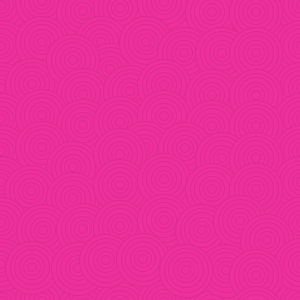
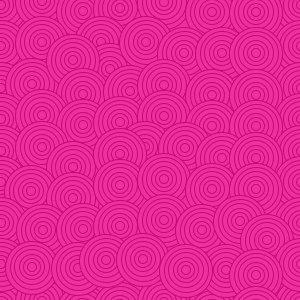
Adding grey and gold versions of all images to test out look and feels, fixing number of columns displayed on wide screens

Changed region(s): [[0.0, 0.0, 1.0, 1.0]]

diff --git a/project-data.js b/project-data.js
@@ -8,7 +8,7 @@ module.exports = [
 		description: "A platformer featuring grappling hooks.",
 		instructions: "Left/Right: move, Space: jump, Click: shoot grapple, Shift: pull grapple",
 		grid: {
-			previewImageUrl: "/img/grapple-game/still.gif",
+			previewImageUrl: "/img/grapple-game/grey.gif",
 			imageUrl: "/img/grapple-game/animated.gif",
 			tiles: ["XXXX","XXXX","XXXX","XXXX","XXXX"]
 		},
@@ -29,17 +29,17 @@ module.exports = [
 		description: "TEST TEST",
 		instructions: null,
 		grid: {
-			previewImageUrl: "/img/sketch-world/still.gif",
+			previewImageUrl: "/img/sketch-world/grey.gif",
 			imageUrl: "/img/sketch-world/animated.gif",
 			tiles: ["XXXXXX","XXXXXX","XXXXXX"]
 		},
 		content: {
 			type: "iframe",
 			url: "http://brid.gs:3012/",
-			width: 800,
-			height: 600,
+			width: 700,
+			height: 500,
 			x: 0,
-			y: 0
+			y: 15
 		}
 	}, {
 		id: "processing-sketchbook",
@@ -50,7 +50,7 @@ module.exports = [
 		description: "Some doodles to get acquainted with Processing.",
 		instructions: null,
 		grid: {
-			previewImageUrl: "/img/processing-sketchbook/still.gif",
+			previewImageUrl: "/img/processing-sketchbook/grey.gif",
 			imageUrl: "/img/processing-sketchbook/animated.gif",
 			tiles: ["XX","XX"]
 		},
@@ -71,7 +71,7 @@ module.exports = [
 		description: "Testing frame-by-frame hitboxes to see how that would feel.",
 		instructions: "Left/Right: move, Space: jump, Z: swing",
 		grid: {
-			previewImageUrl: "/img/breakout-ball/still.gif",
+			previewImageUrl: "/img/breakout-ball/grey.gif",
 			imageUrl: "/img/breakout-ball/animated.gif",
 			tiles: ["XXX","XXX"]
 		},
@@ -92,7 +92,7 @@ module.exports = [
 		description: "A tile-based puzzle game invovling time travel. The final product would revolve around solving puzzles while avoiding paradoxes that would be caused by interfering with your past self.",
 		instructions: "WASD: move, Z: use/drop item, X: return to the past",
 		grid: {
-			previewImageUrl: "/img/paradox-anomaly/still.gif",
+			previewImageUrl: "/img/paradox-anomaly/grey.gif",
 			imageUrl: "/img/paradox-anomaly/animated.gif",
 			tiles: ["XXXX","XXXX","XXXX","XXXX"]
 		},
@@ -113,7 +113,7 @@ module.exports = [
 		description: "A platformer intended to be a sequence of boss fights. Only one was fully programmed (with another, a fire queen, in development).",
 		instructions: "Left/Right: move, Space: jump, A: shoot",
 		grid: {
-			previewImageUrl: "/img/boss-rush-game/still.gif",
+			previewImageUrl: "/img/boss-rush-game/grey.gif",
 			imageUrl: "/img/boss-rush-game/animated.gif",
 			tiles: ["XXXXX","XXXXX","XXXXX"]
 		},
@@ -134,7 +134,7 @@ module.exports = [
 		description: "A multiplayer spaceship simulator. The end product would give each player their own dashboard and controls for specific parts of the ship as it hurtled through space.",
 		instructions: "Control thrusters with mouse",
 		grid: {
-			previewImageUrl: "/img/space-team-galaxy-explorer/still.gif",
+			previewImageUrl: "/img/space-team-galaxy-explorer/grey.gif",
 			imageUrl: "/img/space-team-galaxy-explorer/animated.gif",
 			tiles: ["XXXXX","XXXXX","XXXXX","XXXXX"]
 		},
@@ -155,7 +155,7 @@ module.exports = [
 		description: "An exercise in <a href=\"http://en.wikipedia.org/wiki/Code_golf\" target=\"_blank\">code golf</a>. The goal was to implement a minimalist version of Snake in the fewest characters possible. The version above is 623 characters minified.",
 		instructions: "Arrow keys: move",
 		grid: {
-			previewImageUrl: "/img/minisnake/still.gif",
+			previewImageUrl: "/img/minisnake/grey.gif",
 			imageUrl: "/img/minisnake/animated.gif",
 			tiles: ["XXX"]
 		},
@@ -176,7 +176,7 @@ module.exports = [
 		description: "A simple spider web simulation thrown together during a family vacation.",
 		instructions: "WASD: move, Shift: lay web",
 		grid: {
-			previewImageUrl: "/img/spider-game/still.gif",
+			previewImageUrl: "/img/spider-game/grey.gif",
 			imageUrl: "/img/spider-game/animated.gif",
 			tiles: ["XX","XX"]
 		},
@@ -197,7 +197,7 @@ module.exports = [
 		description: "First foray into WebGL, the cylindrical player model is able to shoot arrows at varying speeds and distances.",
 		instructions: "WASD: move, Click and drag player: fire arrow, C: change camera",
 		grid: {
-			previewImageUrl: "/img/archery-game/still.gif",
+			previewImageUrl: "/img/archery-game/grey.gif",
 			imageUrl: "/img/archery-game/animated.gif",
 			tiles: ["XX","XX","XX","XX","XX","XX","XX"]
 		},
@@ -218,7 +218,7 @@ module.exports = [
 		description: "Code4Health 2013 hackathon submission. Our team of two created a site for giving comfort to those in need. The final version would have pulled requests for comfort from Twitter and posted the responses anonymously.",
 		instructions: null,
 		grid: {
-			previewImageUrl: "/img/tranquilime/still.gif",
+			previewImageUrl: "/img/tranquilime/grey.gif",
 			imageUrl: "/img/tranquilime/animated.gif",
 			tiles: ["XXXX","XXXX"]
 		},
@@ -239,7 +239,7 @@ module.exports = [
 		description: "TEST TEST",
 		instructions: null,
 		grid: {
-			previewImageUrl: "/img/sticky-wiki/still.gif",
+			previewImageUrl: "/img/sticky-wiki/grey.gif",
 			imageUrl: "/img/sticky-wiki/animated.gif",
 			tiles: ["XX","XX","XX","XX"]
 		},
@@ -260,7 +260,7 @@ module.exports = [
 		description: "Non-interactive concepts for a block puzzler. The goal was to make a game where as soon as you cleared any tiles, new tiles would be added in such a way that the combo would continue forever.",
 		instructions: null,
 		grid: {
-			previewImageUrl: "/img/alchemy-drop/still.gif",
+			previewImageUrl: "/img/alchemy-drop/grey.gif",
 			imageUrl: "/img/alchemy-drop/animated.gif",
 			tiles: ["X","X","X"]
 		},
@@ -281,7 +281,7 @@ module.exports = [
 		description: "College submission for a flocking simulation. The zombies (green dots) are programmed to seek out humans (blue dots) while the humans are programmed to stick together and avoid zombies.",
 		instructions: null,
 		grid: {
-			previewImageUrl: "/img/zombie-aflockalypse/still.gif",
+			previewImageUrl: "/img/zombie-aflockalypse/grey.gif",
 			imageUrl: "/img/zombie-aflockalypse/animated.gif",
 			tiles: ["XXX","XXX","XXX"]
 		},
@@ -302,7 +302,7 @@ module.exports = [
 		description: "A little hex world with customizable terrain.",
 		instructions: null,
 		grid: {
-			previewImageUrl: "/img/hex-game/still.gif",
+			previewImageUrl: "/img/hex-game/grey.gif",
 			imageUrl: "/img/hex-game/animated.gif",
 			tiles: ["XX"]
 		},
@@ -323,7 +323,7 @@ module.exports = [
 		description: "Random doodle of a blob.",
 		instructions: null,
 		grid: {
-			previewImageUrl: "/img/blob-animation/still.gif",
+			previewImageUrl: "/img/blob-animation/grey.gif",
 			imageUrl: "/img/blob-animation/animated.gif",
 			tiles: ["X"]
 		},
@@ -341,10 +341,10 @@ module.exports = [
 		timePeriod: "2006",
 		medium: "ActionScript",
 		repoUrl: null,
-		description: "The beginnings of my first ever successful physics engine.",
+		description: "The beginnings of my first ever physics engine.",
 		instructions: null,
 		grid: {
-			previewImageUrl: "/img/phys-engine/still.gif",
+			previewImageUrl: "/img/phys-engine/grey.gif",
 			imageUrl: "/img/phys-engine/animated.gif",
 			tiles: ["X","X"]
 		},
@@ -365,7 +365,7 @@ module.exports = [
 		description: "An extremely esoteric math game.",
 		instructions: "Click stems of fruit to... do a whole bunch of stuff",
 		grid: {
-			previewImageUrl: "/img/efflorescence/still.gif",
+			previewImageUrl: "/img/efflorescence/grey.gif",
 			imageUrl: "/img/efflorescence/animated.gif",
 			tiles: ["XX","XX"]
 		},
@@ -386,7 +386,7 @@ module.exports = [
 		description: "An experimental take on Minesweeper for <a href=\"http://playwithyourmind.com/\" target=\"_blank\">Play With Your Mind</a>.",
 		instructions: null,
 		grid: {
-			previewImageUrl: "/img/mindsweeper/still.gif",
+			previewImageUrl: "/img/mindsweeper/grey.gif",
 			imageUrl: "/img/mindsweeper/animated.gif",
 			tiles: ["XX","XX"]
 		},
@@ -407,7 +407,7 @@ module.exports = [
 		description: "Animation test for a virtual pet game.",
 		instructions: null,
 		grid: {
-			previewImageUrl: "/img/virtual-pet/still.gif",
+			previewImageUrl: "/img/virtual-pet/grey.gif",
 			imageUrl: "/img/virtual-pet/animated.gif",
 			tiles: ["XX","XX","XX","XX"]
 		},

diff --git a/web/script.js b/web/script.js
@@ -10,8 +10,9 @@ $(document).ready(function() {
 
 	//constants
 	var MIN_COLUMNS = 4;
-	var TILE_IMAGE_FADE_IN_TIME = 500;
-	var TILE_IMAGE_FADE_OUT_TIME = 500;
+	var TILE_IMAGE_FADE_IN_TIME = 400;
+	var TILE_IMAGE_FADE_DELAY = 1000;
+	var TILE_IMAGE_FADE_OUT_TIME = 400;
 	var TILE_RESIZE_DELAY = 250;
 	var DIALOG_CONTENT_DEFAULT_WIDTH = 200;
 	var DIALOG_CONTENT_DEFAULT_HEIGHT = 200;
@@ -51,14 +52,27 @@ $(document).ready(function() {
 	//bind events when a shape is moused over or clicked
 	projects.forEach(function(project) {
 		var img = project.shape.find('img');
+		var timer = null;
 		project.shape
 			//on hover, fade in the saturated/animated image
 			.on('mouseenter', function() {
+				if(timer) {
+					clearTimeout(timer);
+					timer = null;
+				}
 				img.stop().fadeTo(Math.floor(TILE_IMAGE_FADE_IN_TIME * (1.0 - +img.css('opacity'))), 1.0);
 			})
 			//when the mouse leaves the shape, fade out the saturated/animated image
 			.on('mouseleave', function() {
-				img.stop().fadeTo(Math.floor(TILE_IMAGE_FADE_OUT_TIME * +img.css('opacity')), 0.0);
+				//it'd be nice to use the .delay() jQuery function, but it has a couple problems
+				if(timer) {
+					clearTimeout(timer);
+					timer = null;
+				}
+				timer = setTimeout(function() {
+					timer = null;
+					img.fadeTo(TILE_IMAGE_FADE_OUT_TIME, 0.0);
+				}, TILE_IMAGE_FADE_DELAY);
 			})
 			//when a shape is clicked, open the project dialog
 			.on('click', function() {
@@ -101,8 +115,13 @@ $(document).ready(function() {
 	//reposition shapes such that they all fit together nice and pretty without any gaps
 	var numColumnsCurrentlyRendered = null;
 	function repositionShapes() {
+		//figure out width of content area based on width of body
+		var contentWidth = body.width();
+		if(contentWidth > 600) {
+			contentWidth = 600 + (contentWidth - 600) / 2;
+		}
 		//we only need to reposition the shapes if we change the number of columns displayed
-		var numColumns = Math.max(MIN_COLUMNS, Math.floor((body.width() - tileSize.margin) /
+		var numColumns = Math.max(MIN_COLUMNS, Math.floor((contentWidth - tileSize.margin) /
 			(tileSize.width + tileSize.margin)));
 		if(numColumnsCurrentlyRendered === numColumns) {
 			return;

diff --git a/web/less/styles.less b/web/less/styles.less
@@ -7,9 +7,9 @@ html, body, #shapes {
 }
 body {
 	padding: 20px 10px;
-	background-color: #ed309b;
-	// background-image: url('/img/pink-swirl.png');
-	// background-repeat: repeat;
+	background-color: #fff;
+	background-image: url('/img/pink-swirl.png');
+	background-repeat: repeat;
 	&.no-scroll {
 		overflow: hidden
 	}
